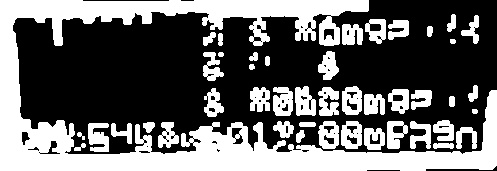
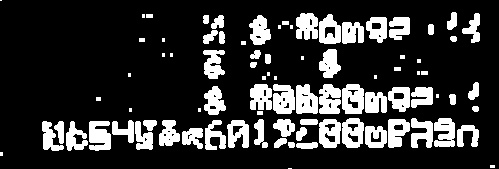
yes

diff --git a/testimagever1.py b/testimagever1.py
@@ -142,47 +142,33 @@ def diff_image_search1(before_frame,present_frame,img_temp,label_temp):
         #print(i[0])
         #img_j = cv2.rectangle(syaei_present_img, (0,int(present_char_List[i[0]][0])), (610, int(present_char_List[i[0]][1])), (0,0,255), 2)
     #cv2.imwrite("diffecence3.jpg",img_j)
+    #文字のみのマスク画像生成
+    present_char_List , mask_present_img2 = image_processing.mask_make(blue_threshold_present_img)
+    
     engine = pyttsx3.init()
     before_frame_row = []
     for i in indices:
         cut_present_img = syaei_present_img[int(present_char_List[i[0]][0]):int(present_char_List[i[0]][1]),]
-        output_text ,out = image_processing.match_text2(img_temp,label_temp,cut_present_img)
+        #output_text ,out = image_processing.match_text2(img_temp,label_temp,cut_present_img)
         #plt.imshow(cut_present_img)
         #before_frame_row.append(cut_present_img)
         #plt.show()
-        audio_output.partial_text_read(output_text)
+        #audio_output.partial_text_read(output_text)
         #engine.runAndWait()
         cv2,imwrite("yuu.jpg",cut_present_img)
     
-    hsvLower = np.array([70, 25, 25])    # 抽出する色の下限(HSV)
-    hsvUpper = np.array([255, 150, 255])    # 抽出する色の上限(HSV)
-    hsv = cv2.cvtColor(blue_threshold_present_img, cv2.COLOR_BGR2HSV) # 画像をHSVに変換
-    hsv_mask = cv2.inRange(hsv, hsvLower, hsvUpper)    # HSVからマスクを作成
-    result = cv2.bitwise_and(blue_threshold_present_img, blue_threshold_present_img, mask=hsv_mask) # 元画像とマスクを合成
-    #gray_present_img = cv2.medianBlur(hsv_mask,3)
-    #mask_present_img2 = cv2.dilate(mask_present_img2,kernel)
-    #ret, mask_present_img2 = cv2.threshold(hsv_mask,0,255,cv2.THRESH_OTSU)
-    mask_present_img2 = cv2.dilate(hsv_mask,kernel)
-    plt.imshow(mask_present_img2)
-    plt.show()
-    height_present , width_present = mask_present_img2.shape
-    array_present_H = image_processing.Projection_H(mask_present_img2,height_present,width_present)
-    presentH_THRESH = max(array_present_H)
-    present_char_List = image_processing.Detect_HeightPosition(presentH_THRESH,height_present,array_present_H)
-    print(present_char_List)
-    present_char_List = np.reshape(present_char_List,[int(len(present_char_List)/2),2])
-    #present_char_List = image_processing.convert_1d_to_2d(present_char_List,2)
-    print(present_char_List)
-    
+
     for i in present_char_List:
         normal = mask_present_img2.copy()
+        cut_present = mask_present_img2[int(i[0]):int(i[1]),]
         cv2.rectangle(normal,(0,0),(w-1,int(i[0])-1),(0,0,0),-1)
         cv2.rectangle(normal,(0,int(i[1])-1),(w-1,h-1),(0,0,0),-1)
         plt.imshow(normal)
         plt.show()
         #cut_present_img = syaei_present_img[int(i[0]):int(i[1]),]
-
-        before_frame_row.append(cut_present_img)
+        #before_frame_row.append(normal)
+        before_frame_row.append(cut_present)
+        
     print(len(before_frame_row))
     if len(present_char_List) == 0:
         return img,img,img,img
@@ -201,6 +187,7 @@ def diff_image_search(before_frame,present_frame,img_temp,label_temp,before_fram
     img = cv2.imread("./balck_img.jpg")
     #カーネル
     kernel = np.ones((3,3),np.uint8)
+    h,w,d = present_frame.shape
     #フレームの青い部分を二値化
     blue_threshold_before_img = image_processing.cut_blue_img1(before_frame)
     plt.imshow(blue_threshold_before_img)
@@ -215,8 +202,6 @@ def diff_image_search(before_frame,present_frame,img_temp,label_temp,before_fram
     #except TypeError:
         #print("Screen cannot be detected")
         #return before_frame,[] ,[]
-    #before_frame = cv2.resize(before_frame,dsize=(610,211))
-    #present_frame = cv2.resize(present_frame,dsize=(610,211))
     #コーナーに従って画像の切り取り
     cut_present = present_frame[present_p1[1]:present_p2[1],present_p2[0]:present_p3[0]]
     cut_before = before_frame[before_p1[1]:before_p2[1],before_p2[0]:before_p3[0]]
@@ -285,27 +270,34 @@ def diff_image_search(before_frame,present_frame,img_temp,label_temp,before_fram
     engine = pyttsx3.init()
     before_frame_row = []
     sabun_count = 0
-    for i in indices:
-        cut_present_img = syaei_present_img[int(present_char_List[i[0]][0]):int(present_char_List[i[0]][1]),]
-        plt.imshow(cut_present_img)
+    present_char_List , mask_present_img2 = image_processing.mask_make(blue_threshold_present_img)
+    for i in present_char_List:
+        normal = mask_present_img2.copy()
+        cut_present = mask_present_img2[int(i[0]):int(i[1]),]
+        cv2.rectangle(normal,(0,0),(w-1,int(i[0])-1),(0,0,0),-1)
+        cv2.rectangle(normal,(0,int(i[1])-1),(w-1,h-1),(0,0,0),-1)
+        plt.imshow(normal)
         plt.show()
-        if not sabun(before_frame_row1,cut_present_img):
+        #cut_present_img = syaei_present_img[int(i[0]):int(i[1]),]
+        before_frame_row.append(cut_present)
+        if not sabun(before_frame_row1,cut_present):
             sabun_count += 1
 
-        if not sabun(before_frame_row2,cut_present_img):
+        if not sabun(before_frame_row2,cut_present):
             sabun_count += 1
     
-        if not sabun(before_frame_row3,cut_present_img):
+        if not sabun(before_frame_row3,cut_present):
             sabun_count += 1
             
-        if not sabun(before_frame_row4,cut_present_img):
+        if not sabun(before_frame_row4,cut_present):
             sabun_count += 1
 
         if sabun_count > 3:
-            output_text ,out = image_processing.match_text2(img_temp,label_temp,cut_present_img)
+            plt.imshow(cut_present)
+            plt.show()
+            output_text ,out = image_processing.match_text2(img_temp,label_temp,cut_present)
             audio_output.partial_text_read(output_text)
         #plt.imshow(cut_present_img)
-        before_frame_row.append(cut_present_img)
         sabun_count = 0
         #plt.show()
         #engine.runAndWait()
@@ -325,28 +317,29 @@ def diff_image_search(before_frame,present_frame,img_temp,label_temp,before_fram
     elif len(indices) == 3:
         return before_frame_row[0] , before_frame_row[1] ,before_frame_row[2] ,img
     elif len(indices) == 4:
-        return before_frame_row[0] , before_frame_row[1],before_frame_row[2],before_frame_row[3],before_frame_row[4]    
+        return before_frame_row[0] , before_frame_row[1],before_frame_row[2],before_frame_row[3] 
         
 
 
 #列ごとに差分をとる
 def sabun(before_frame_row,present_frame_row):
     kernel = np.ones((3,3),np.uint8)
-    gray_present_img = cv2.cvtColor(present_frame_row,cv2.COLOR_BGR2GRAY)
-    gray_present_img = cv2.medianBlur(gray_present_img,3)
-    ret, present_frame_row = cv2.threshold(gray_present_img,0,255,cv2.THRESH_OTSU)
+    #gray_present_img = cv2.cvtColor(present_frame_row,cv2.COLOR_BGR2GRAY)
+    present_frame_row = cv2.medianBlur(present_frame_row,3)
+    #ret, present_frame_row = cv2.threshold(gray_present_img,0,255,cv2.THRESH_OTSU)
     #膨張処理
-    present_frame_row = cv2.dilate(present_frame_row,kernel)
+    #present_frame_row = cv2.dilate(present_frame_row,kernel)
     
     h ,w = present_frame_row.shape
     print(before_frame_row.shape)
     before_frame_row = cv2.resize(before_frame_row,dsize=(w,h))
-    gray_before_img = cv2.cvtColor(before_frame_row,cv2.COLOR_BGR2GRAY)
-    gray_before_img = cv2.medianBlur(gray_before_img,3)
-    ret, before_frame_row = cv2.threshold(gray_before_img,0,255,cv2.THRESH_OTSU)
+    #gray_before_img = cv2.cvtColor(before_frame_row,cv2.COLOR_BGR2GRAY)
+    before_frame_row = cv2.medianBlur(before_frame_row,3)
+    #ret, before_frame_row = cv2.threshold(gray_before_img,0,255,cv2.THRESH_OTSU)
     print(present_frame_row.shape)
     print(before_frame_row.shape)
     frame_diff = cv2.absdiff(present_frame_row,before_frame_row)
+    frame_diff = cv2.medianBlur(frame_diff,5)
     #frame_diff = cv2.absdiff(present_frame,before_frame)
     plt.imshow(frame_diff)
     plt.show()
@@ -355,9 +348,9 @@ def sabun(before_frame_row,present_frame_row):
     W_THRESH = max(array_V)
     char_List2 = image_processing.Detect_WidthPosition(W_THRESH,width,array_V)
     if len(char_List2) == 0:
-        print("True")
+        return True
     else:
-        print("False")
+        return False
 
 def voice(frame,voice_flag):
     #準備

diff --git a/image_processing.py b/image_processing.py
@@ -20,6 +20,30 @@ import numpy as np
 import cv2
 import matplotlib.pyplot as plt
 from pylsd.lsd import lsd
+
+def mask_make(blue_threshold_present_img):
+    kernel = np.ones((3,3),np.uint8)
+    hsvLower = np.array([70, 25, 25])    # 抽出する色の下限(HSV)
+    hsvUpper = np.array([255, 222, 255])    # 抽出する色の上限(HSV)
+    hsv = cv2.cvtColor(blue_threshold_present_img, cv2.COLOR_BGR2HSV) # 画像をHSVに変換
+    hsv_mask = cv2.inRange(hsv, hsvLower, hsvUpper)    # HSVからマスクを作成
+    result = cv2.bitwise_and(blue_threshold_present_img, blue_threshold_present_img, mask=hsv_mask) # 元画像とマスクを合成
+    hsv_mask = cv2.medianBlur(hsv_mask,3)
+    #mask_present_img2 = cv2.dilate(mask_present_img2,kernel)
+    #ret, mask_present_img2 = cv2.threshold(hsv_mask,0,255,cv2.THRESH_OTSU)
+    mask_present_img2 = cv2.dilate(hsv_mask,kernel)
+    #plt.imshow(mask_present_img2)
+    #plt.show()
+    height_present , width_present = mask_present_img2.shape
+    
+    array_present_H = Projection_H(mask_present_img2,height_present,width_present)
+    presentH_THRESH = max(array_present_H)
+    present_char_List = Detect_HeightPosition(presentH_THRESH,height_present,array_present_H)
+    #print(present_char_List)
+    present_char_List = np.reshape(present_char_List,[int(len(present_char_List)/2),2])
+    #present_char_List = image_processing.convert_1d_to_2d(present_char_List,2)
+    return present_char_List , mask_present_img2
+
 #アオイ部分を切り抜く
 def cut_blue_img(img):
     c_img = cv2.cvtColor(img,cv2.COLOR_BGR2RGB)
@@ -187,8 +211,8 @@ def points_extract1(img,img2):
     #print(mi_x)
     ma_x = ma_x[np.argsort(ma_x[:,1])]
     mi_x = mi_x[np.argsort(mi_x[:,1])] 
-    print(ma_x)
-    print(mi_x)
+    #print(ma_x)
+    #print(mi_x)
     #左うえ
     min_1 = [int(mi_x[0][0]),int(mi_x[0][1])]
     near_min_1 = func_search_neighbourhood(min_1,mi_x[1:])
@@ -201,8 +225,8 @@ def points_extract1(img,img2):
     #右下
     max_2 = [int(ma_x[-1][0]),int(ma_x[-1][1])]
     near_max_2 = func_search_neighbourhood(max_2,ma_x[:-1])
-    print(near_max_2)
-    print(max_2)
+    #print(near_max_2)
+    #print(max_2)
     #ひだりうえ
     p1 = [int((min_1[0]+near_min_1[0])/2),int((min_1[1]+near_min_1[1])/2)]
     #左下
@@ -235,8 +259,8 @@ def points_extract1(img,img2):
     # 輪郭を描画する。
     #cv2.drawContours(img2, contours, -1, color=(0, 0, 255), thickness=3)
 
-    plt.imshow(img2)
-    plt.show()
+    #plt.imshow(img2)
+    #plt.show()
     return p1,p2,p3,p4
     
 
@@ -463,9 +487,10 @@ def match_text2(img_temp,label_temp,frame):
     #対象画像をリサイズ
     syaei_resize_img = cv2.resize(frame,dsize=(610,211))
     #対象画像をグレイスケール化
-    gray_img = cv2.cvtColor(syaei_resize_img,cv2.COLOR_BGR2GRAY)
+    #gray_img = cv2.cvtColor(syaei_resize_img,cv2.COLOR_BGR2GRAY)
     #二値画像へ
-    ret, img_mask = cv2.threshold(gray_img,0,255,cv2.THRESH_OTSU)
+    #ret, img_mask = cv2.threshold(gray_img,0,255,cv2.THRESH_OTSU)
+    img_mask = frame
     #img_mask = cv2.adaptiveThreshold(gray_img,255,cv2.ADAPTIVE_THRESH_MEAN_C,cv2.THRESH_BINARY,7,-3)
     #ノイズ除去
     img_mask = cv2.medianBlur(img_mask,5)
